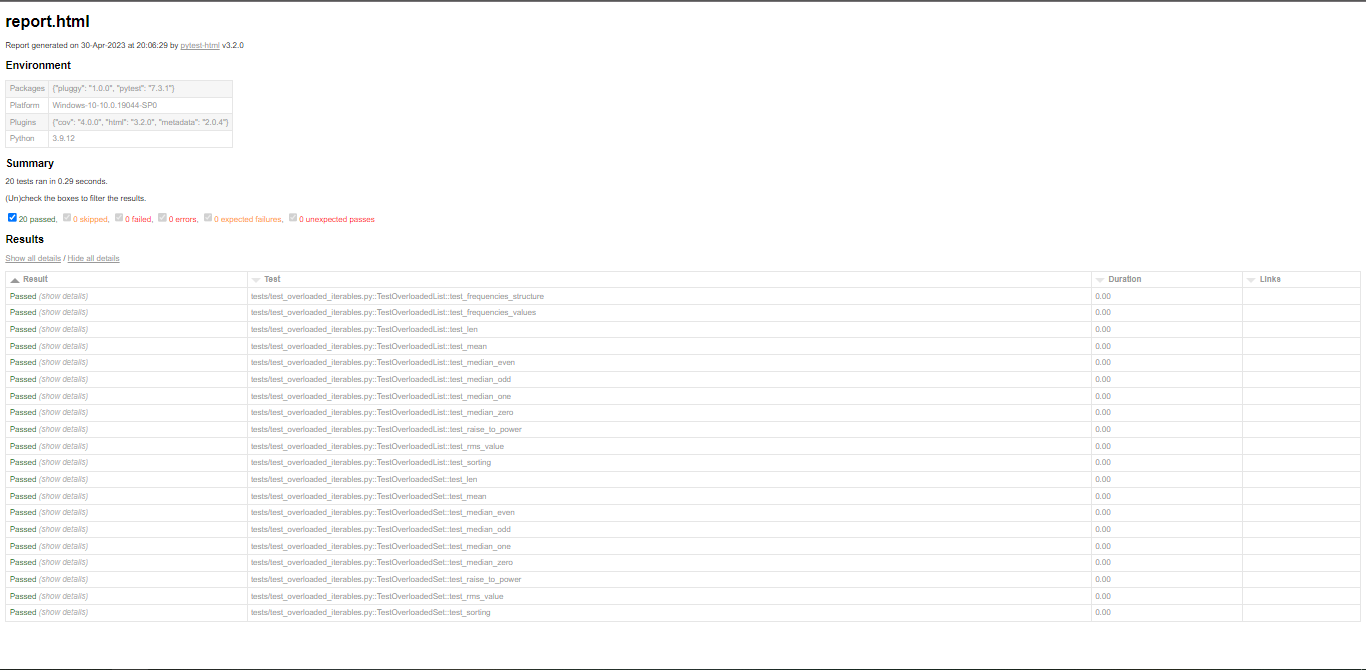
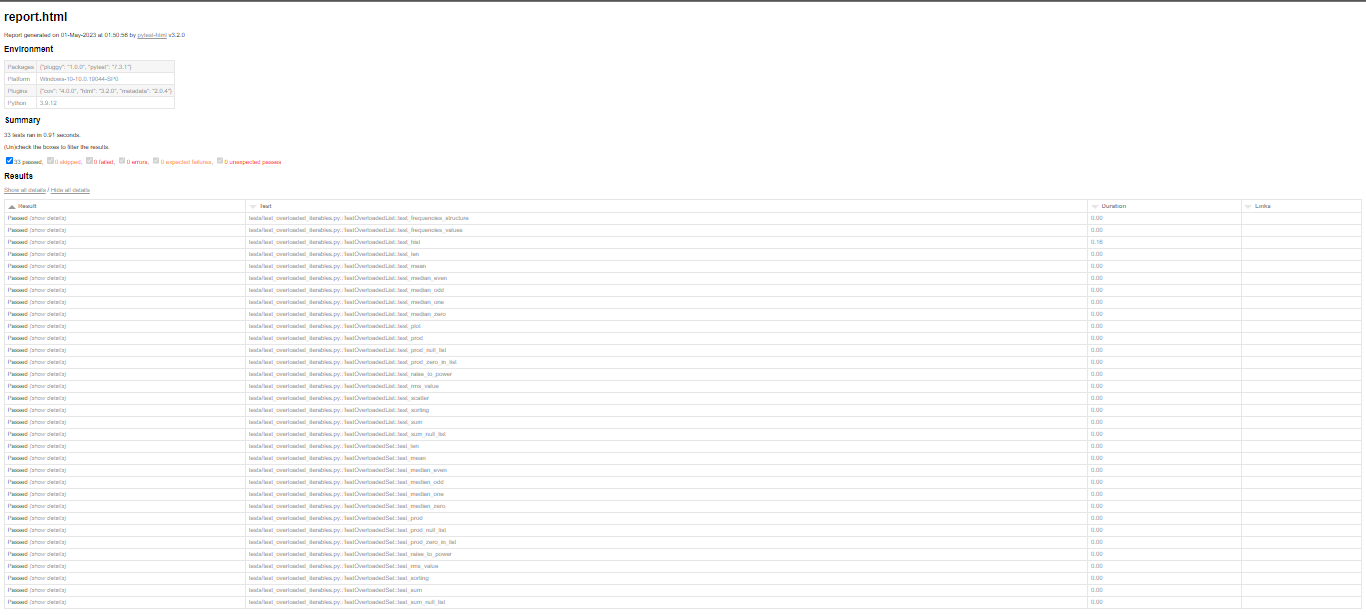
updated readme

Changed region(s): [[0.0, 0.0, 1.0, 1.0]]

diff --git a/src/overloaded_iterables/classes.py b/src/overloaded_iterables/classes.py
@@ -96,48 +96,19 @@ class OverloadedList(list):
         else:
             return float()
 
-    def draw(self, fig_type: str = 'hist', **kwargs):
-        """
-        Draw the frequency distribution graph of the values in the OverloadedList object.
-
-        args:
-            fig_type:str = 'hist' | 'plot' | 'scatter'
-            kwargs: dict = self.hist.kwargs | self.plot.kwargs | self.scatter.kwargs
-        """
-        method_exception = Exception(
-            message="Could not generate/save graph.",
-            code="graph_generation_error"
-        )
-        if fig_type.lower().strip() == 'hist':
-            res = self.hist(**kwargs)
-        elif fig_type.lower().strip() == 'plot':
-            res = self.plot(**kwargs)
-        elif fig_type.lower().strip() == 'scatter':
-            res = self.scatter(**kwargs)
-
-        else:
-            raise Exception(
-                message=f"Unsupported argument 'fig_type': {fig_type}",
-                code='unknown_fig_type'
-            )
-
-        if not res:
-            raise method_exception
-
-        return True
-
     def hist(
         self,
         bins: int = 10,
-        title: str = 'Figure 1',
-        x_label: str = 'X-axis --->',
-        y_label: str = 'Y-axis --->',
+        title: str = 'Histogram',
+        x_label: str = 'Values --->',
+        y_label: str = 'Frequencies --->',
         save_dir: str = None,
         file_name: str = None,
         histtype: str = 'step',
         align: str = 'mid',
         orientation: str = 'vertical',
         log_scale: bool = False,
+        show: bool = False,
         *args,
         **kwargs
     ) -> bool:
@@ -157,7 +128,8 @@ class OverloadedList(list):
             plt.title(title)
             plt.xlabel(x_label)
             plt.ylabel(y_label)
-            plt.show()
+            if show:
+                plt.show()
 
             if save_dir:
                 file_name = f"{file_name.lower().strip()}.PNG" if file_name else f"{title.lower().strip()}__hist__{datetime.utcnow()}.PNG"
@@ -171,16 +143,17 @@ class OverloadedList(list):
 
     def plot(
             self,
-            title: str = 'Figure 1',
-            x_label: str = 'X-axis --->',
-            y_label: str = 'Y-axis --->',
+            title: str = 'Line Plot',
+            x_label: str = 'Values --->',
+            y_label: str = 'Frequencies --->',
             save_dir: str = None,
             file_name: str = None,
-            color: str = '#ffffff',
+            color: str = '#000000',
             linewidth: float = 1,
             marker: str = ',',
             markerfacecolor: str = '#252525',
             marker_size: float = 1.0,
+            show: bool = False,
             *args,
             **kwargs
     ):
@@ -196,7 +169,8 @@ class OverloadedList(list):
             plt.title(title)
             plt.xlabel(x_label)
             plt.ylabel(y_label)
-            plt.show()
+            if show:
+                plt.show()
 
             if save_dir:
                 file_name = f"{file_name.lower().strip()}.PNG" if file_name else f"{title.lower().strip()}__hist__{datetime.utcnow()}.PNG"
@@ -210,15 +184,18 @@ class OverloadedList(list):
 
     def scatter(
             self,
-            title: str = 'Figure 1',
-            x_label: str = 'X-axis --->',
-            y_label: str = 'Y-axis --->',
+            title: str = 'Scatter Plot',
+            x_label: str = 'Values --->',
+            y_label: str = 'Frequencies --->',
             save_dir: str = None,
             file_name: str = None,
             size: List[float] = [1.25],
-            color: str = '#ffffff',
+            color: str = '#000000',
             marker: str = ',',
-            line_width: float = 0.25
+            line_width: float = 2,
+            show: bool = False,
+            *args,
+            **kwargs
     ):
         """
         Draws and saves if required, the scatter-plot of the frequency distribution of the elements of the OverloadedList object.
@@ -227,13 +204,13 @@ class OverloadedList(list):
             x_axis, y_axis = self.frequencies
             x_axis = array(x_axis)
             y_axis = array(y_axis)
-            plt.scatter(x=x_axis, y=y_axis, s=array(size),
-                        color=color, marker=marker, linewidths=line_width)
+            plt.scatter(x=x_axis, y=y_axis, s=array(size), color=color, marker=marker, linewidths=line_width)
             plt.title(title)
             plt.xlabel(x_label)
             plt.ylabel(y_label)
-            plt.show()
-            
+            if show:
+                plt.show()
+
             if save_dir:
                 file_name = f"{file_name.lower().strip()}.PNG" if file_name else f"{title.lower().strip()}__hist__{datetime.utcnow()}.PNG"
                 save_path = path.join(

diff --git a/setup.py b/setup.py
@@ -1,11 +1,14 @@
+from os import path
 from setuptools import setup, find_packages
 
+def read(fname:str='README.md'):
+    return open(path.join(path.dirname(__file__), fname)).read()
 
 setup(
     name='overloaded-iterables',
-    version='0.5.47',
+    version='0.6',
     description="Overloaded version of the built-in python classes: list and set to include some extra functionalities.",
-    long_description="Overloaded version of the built-in python classes: list and set to include some extra functionalities such as sort(), rms(), etc",
+    long_description=read(),
     license='MIT',
     author="Prithoo Medhi",
     author_email='prithoo11335@gmail.com',
@@ -14,13 +17,18 @@ setup(
     url='https://github.com/Arkiralor/overloaded_iterables',
     keywords= [
         'python',
+        'built-in overloading',
         'sequence',
         'overloading',
         'median',
         'rms',
         'root-mean-square',
         'mean',
-        'sort'
+        'sort',
+        'graph',
+        'histogram',
+        'scatterplot',
+        'line-plot'
     ],
     install_requires=[
         "matplotlib",
@@ -30,7 +38,12 @@ setup(
         "windows",
         "ubuntu-linux",
         "mac-os"
-    ]
+    ],
+    classifiers=[
+        "Development Status :: 3 - Alpha",
+        "Topic :: Utilities",
+        "License :: OSI Approved :: BSD License",
+    ],
 )
 
 if __name__=="__main__":

diff --git a/tests/test_overloaded_iterables.py b/tests/test_overloaded_iterables.py
@@ -92,6 +92,15 @@ class TestOverloadedList(unittest.TestCase):
 
         self.assertEqual(self.ARR_1.rms(), root_mean_squared)
 
+    def test_hist(self):
+        self.assertTrue(self.ARR_1.hist())
+    
+    def test_plot(self):
+        self.assertTrue(self.ARR_1.plot())
+
+    def test_scatter(self):
+        self.assertTrue(self.ARR_1.scatter())
+
 
 class TestOverloadedSet(unittest.TestCase):
     """

diff --git a/README.md b/README.md
@@ -57,9 +57,29 @@ obj = OverloadedList(*args)
             _mean: float = obj.mean()
         ```
 
-2. `<class>.sort()`
+2. `<class>.sum()`
+    - Claculate the sum of all the elements in the given iterable class object.
+    - Arguments: `self`
+    - Returns: `float (64-bit)`
+    - Example:
+
+        ```python
+            _sum: float = obj.sum()
+        ```
+
+3. `<class>.prod()`
+    - Calculate the product of all the elements in the given iterable class object.
+    - Arguments: `self`
+    - Returns: `float (64-bit)`
+    - Example:
+
+        ```python
+            _product: float = obj.prod()
+        ```
+
+4. `<class>.sort()`
     - Sorts the contents of the given iterable class object via the [Timsort](https://en.wikipedia.org/wiki/Timsort) sorting algorithm.
-    - Arguments: `self`, `reverse:bool | default: False`
+    - Arguments: `self`, `key: None | default: None`, `reverse: bool | default: False`
     - Returns `object: <list>`
     - Example:
 
@@ -67,7 +87,7 @@ obj = OverloadedList(*args)
             sorted_seq: list = obj.sort()
         ```
 
-3. `<class>.raise_to()`
+5. `<class>.raise_to()`
     - Raises each element in the iterable class object to the given power.
     - Arguments: `self`, `power: float (64-bit) | default: 1.0`
     - Returns `object: <class>`
@@ -82,9 +102,9 @@ obj = OverloadedList(*args)
             _raised_sequence: type(obj) = obj.raise_to(power=z)
         ```
 
-4. `<class>.rms()`
+6. `<class>.rms()`
     - Finds the [Root-Mean-Square (RMS)](https://en.wikipedia.org/wiki/Root_mean_square) of the values in the current iterable class object.
-    - Arguments: `self`
+    - Arguments: `self`, `power: float | default: 2`, `root: int | default: 2`
     - Returns: `float (64-bit)`
     - Example:
 
@@ -92,7 +112,7 @@ obj = OverloadedList(*args)
             _rms: float = obj.rms()
         ```
 
-5. `<class>.median()`
+7. `<class>.median()`
     - Finds the [median](https://en.wikipedia.org/wiki/Median) of the contents of the given iterable class object.
     - Arguments: `self`
     - Returns: `float (64-bit)`
@@ -102,7 +122,46 @@ obj = OverloadedList(*args)
             _median:float = obj.median()
         ```
 
-6. `<class>.len (property)`
+8. `<class>.hist()`&nbsp;&nbsp;&nbsp;&nbsp;__(OverloadedList only)__
+    - Plots the histogram of the frequency distribution of the elements in the OverloadedList.
+    - Arguments: `self`, `bins: int | default: 10`, `title: str | default: 'Histogram'`, `x_label: str | default: 'Values --->'`, `y_label: str | default: 'Frequencies --->'`, `save_dir: str | default: None`, `file_name: str | default: None`, `histtype: str | default: 'step'`, `align: str | default: 'mid'`, `orientation: str | default: 'vertical'`, `log_scale: bool | default: False`, `show: bool | default: False`
+    - Process:
+        - Shows the generated figure if `show` is set to `True`
+        - Saves the generated figure if `save_dir` is provided.
+    - Returns: `bool`
+    - Example:
+
+        ```python
+            fig_check:float = obj.hist(show=True, save_dir='figures', file_name='some-figure')
+        ```
+
+9. `<class>.plot()`&nbsp;&nbsp;&nbsp;&nbsp;__(OverloadedList only)__
+    - Plots the lineplot of the frequency distribution of the elements in the OverloadedList.
+    - Arguments: `self`, `title: str | default: 'Line Plot'`, `x_label: str | default: 'Values --->'`, `y_label: str | default: 'Frequencies --->'`, `save_dir: str | default: None`, `file_name: str | default: None`, `color: str | default: '#000000'`, `linewidth: float | default: 1`, `marker: str | default: ','`,  `markerfacecolor: str | default: '#252525'`, `marker_size: float | default: 1.0`, `show: bool | default: False`
+    - Process:
+        - Shows the generated figure if `show` is set to `True`
+        - Saves the generated figure if `save_dir` is provided.
+    - Returns: `bool`
+    - Example:
+
+        ```python
+            fig_check:float = obj.plot(show=True, save_dir='figures', file_name='some-figure')
+        ```
+
+10. `<class>.scatter()`&nbsp;&nbsp;&nbsp;&nbsp;__(OverloadedList only)__
+    - Plots the scatterplot of the frequency distribution of the elements in the OverloadedList.
+    - Arguments: `self`, `title: str | default: 'Scatter Plot'`, `x_label: str | default: 'Values --->'`, `y_label: str | default: 'Frequencies --->'`, `save_dir: str | default: None`, `file_name: str | default: None`, `size: List[float] | default: [1.25]`, `color: str | default: '#000000'`, `marker: str | default: ','`, `line_width: float | default: 2`, `show: bool | default: False`
+    - Process:
+        - Shows the generated figure if `show` is set to `True`
+        - Saves the generated figure if `save_dir` is provided.
+    - Returns: `bool`
+    - Example:
+
+        ```python
+            fig_check:float = obj.scatter(show=True, save_dir='figures', file_name='some-figure')
+        ```
+
+11. `<class>.len (property)`
     - Finds and returns the length of the current iterable class object as a property.
     - Arguments: `self`
     - Returns: `int`
@@ -112,7 +171,7 @@ obj = OverloadedList(*args)
             _l: int = obj.len
         ```
 
-7. `<class>.frequencies (property)`&nbsp;&nbsp;&nbsp;&nbsp;__(OverloadedList only)__
+12. `<class>.frequencies (property)`&nbsp;&nbsp;&nbsp;&nbsp;__(OverloadedList only)__
     - Finds the frequencies of all elements of the given `OverloadedList` class and returns a list of unique values with their discovered frequencies.
     - Arguments: `self`
     - Returns: `OverloadedList, OverloadedList`
